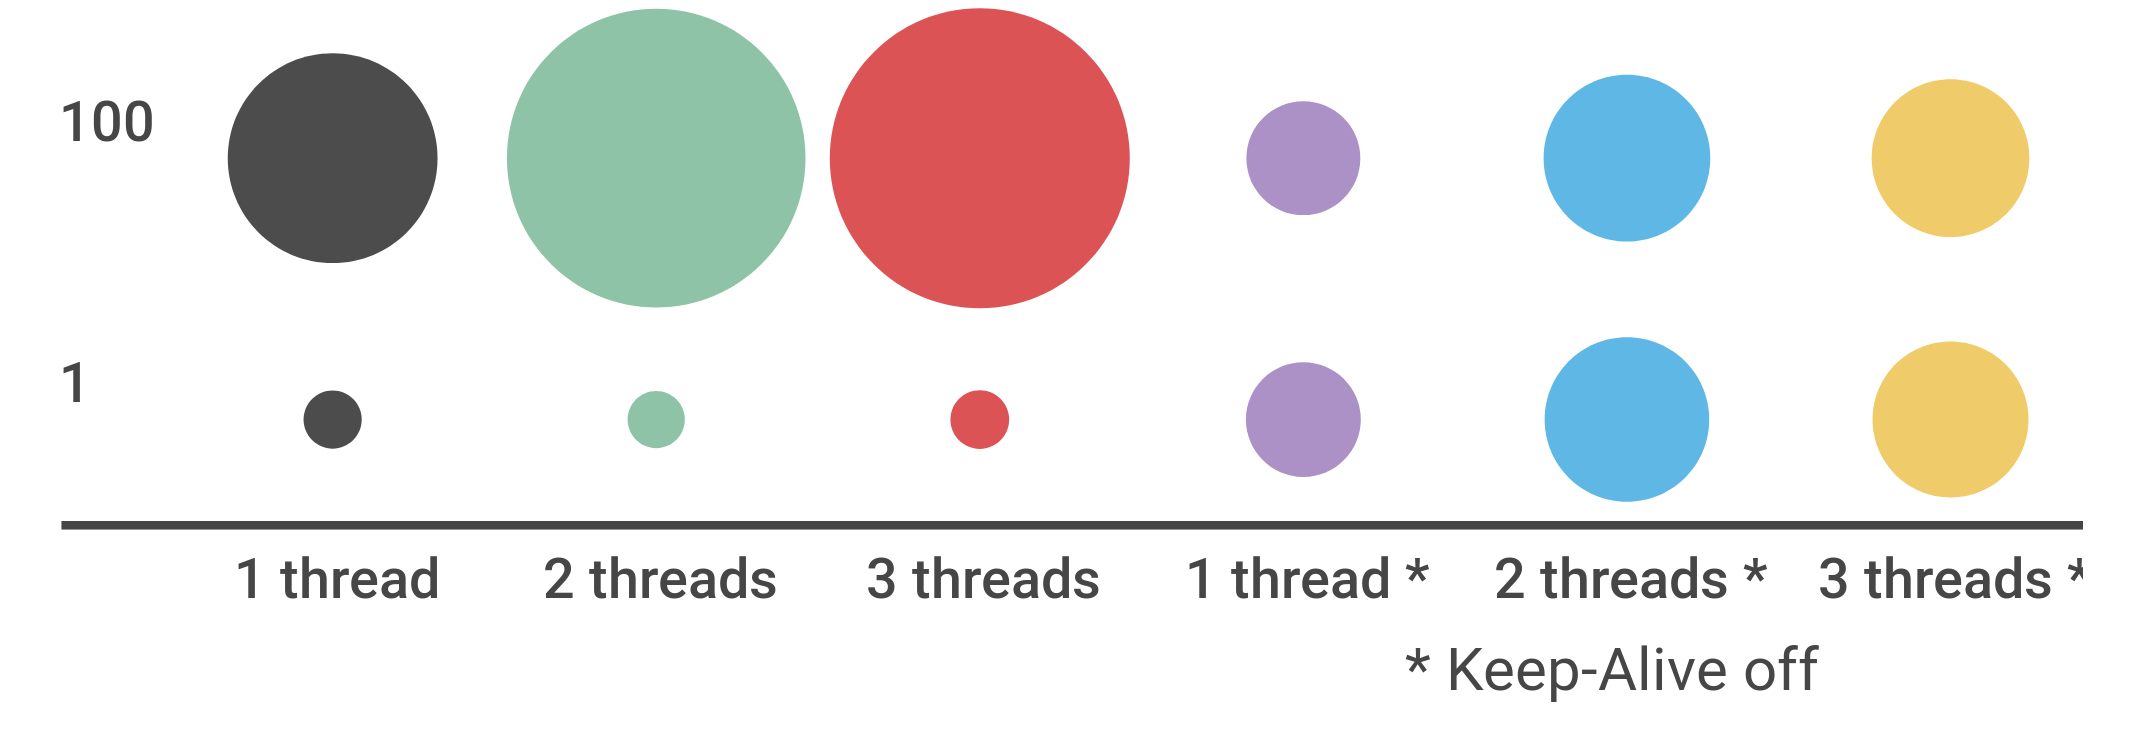
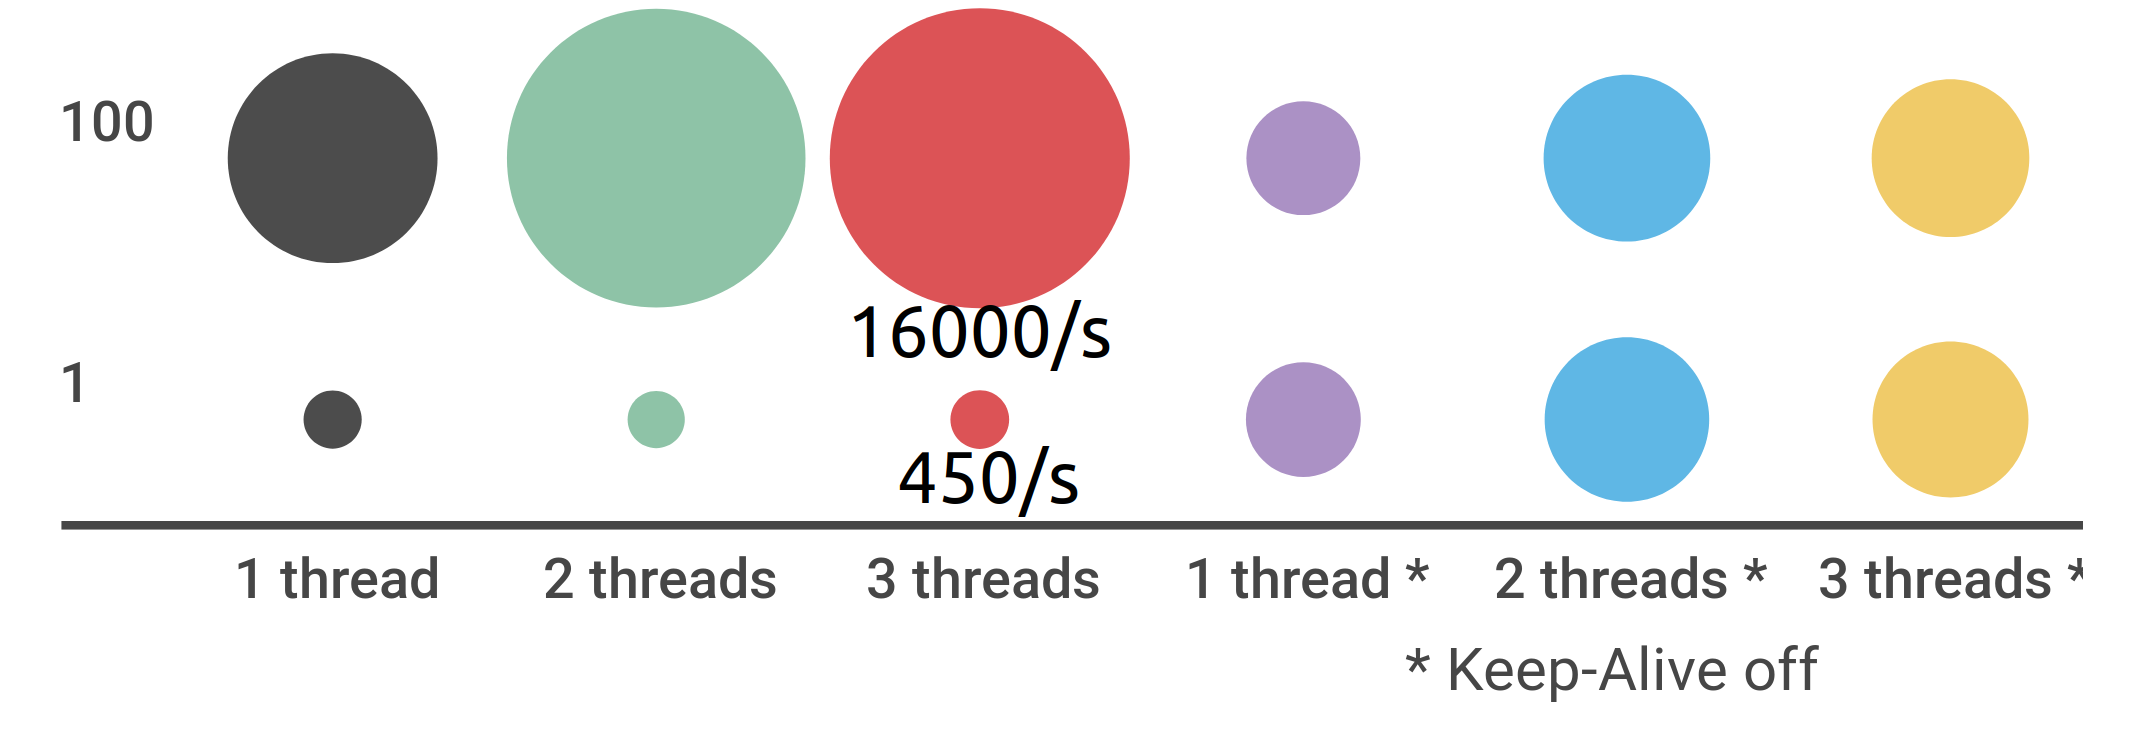
Правки

Changed region(s): [[0.4023, 0.4213, 0.526, 0.5116], [0.4023, 0.6019, 0.526, 0.6922]]

diff --git a/docs/index.html b/docs/index.html
@@ -96,7 +96,7 @@
 	<section class="slide"><div>
 		<h2>Apache.JMeter</h2>
 		<ul>
-			<li><a href="https://jmeter.apache.org/">https://jmeter.apache.org</a>, 2003 - настоящее время, активен</li>
+			<li><a href="https://jmeter.apache.org/">https://jmeter.apache.org</a>, c 2003 по настоящее время, активен</li>
 			<li>HTTP(S), JMS, JDBC, Java/Groovy, FTP, SMTP, ... 50+</li>
 			<li>ClickHouse, InfluxDB, Graphite, Grafana, HTML</li>
 			<li>Распределённый запуск, CI</li>
@@ -150,15 +150,14 @@
 
 	<section class="slide"><div>
 		<h2><b>Samplers.HTTP.Request.X</b>. Простой тест<f/h2>
-		<p>Несколько GET-запросов на локальный HTTP-сервер</p>
+		<p>Несколько GET-запросов на локальный сервер</p>
 		<figure>
 			<img class="w cover place bottom center" src="images/Samplers.HTTP.Request.X.png">
 		</figure>
 	</div></section>
 
 	<section class="slide"><div>
-		<h2>Запуск и остановка <b>NGinx</b> в тесте</h2>
-		<p>Используя <b>OS Process Sampler</b> в <b>setUp</b> и <b>tearDown Thread Group</b></p>
+		<h2>Запуск и остановка <b>NGinx</b> в тесте, используя <b>OS Process Sampler</b></h3>
 		<figure>
 			<img class="w cover place bottom center" 
 			src="images/Samplers.HTTP.Request.X.mark.png">
@@ -183,7 +182,7 @@
 
 	<section class="slide"><div>
 		<h2>Настраиваются параметры HTTP-запроса</h2>
-		<p>Параметризованы хост, порт, путь. Все настройки -- по умолчанию.</p>
+		<p>Параметризованы хост, порт, путь. Все настройки — по умолчанию.</p>
 		<figure>
 			<img class="w cover place bottom center" 
 				src="images/Samplers.HTTP.Request.X.mark.2.png">
@@ -201,7 +200,7 @@
 
 	<section class="slide"><div>
 		<h2>Количество потоков и итераций настраивается</h2>
-		<p>Профиль -- стабильная высокая нагрузка от <mark>${Threads}</mark> потоков</p>
+		<p>Профиль — стабильная высокая нагрузка от <mark>${Threads}</mark> потоков</p>
 		<figure>
 			<img class="w cover place bottom center" 
 			src="images/Samplers.HTTP.Request.X.mark.4.png">
@@ -226,7 +225,7 @@
 	</div></section>
 
 	<section class="slide"><div>
-		<h2>Результаты серии экспериментов</h2>
+		<h2>Результаты: ось X — потоки, ось Y — длина сценария</h2>
 		<figure>
 			<img 
 				class="place bottom center"
@@ -320,7 +319,7 @@
 
 	<section class="slide"><div>
 		<h2>Средняя интенсивность 4855/s,</h2>
-		<h3>должна быть стабильная нагрузка,<br/>а не всплески от 500/s до 16000/s</h3>
+		<h3>должна быть стабильная нагрузка,<br/>а видим всплески от 500/s до 16000/s</h3>
 		<figure>
 			<img class="w cover place bottom center" 
 				src="images/Monitoring.Sampler.HTTP.X.1.jmeter.png">	
@@ -411,9 +410,9 @@
 	</div></section>
 
 	<section class="clear blue slide"><div>
-		<h2 class="small shout">Модификацией интенсивность не поднять.<br/>
+		<h2 class="small shout">Модификацией скрипта интенсивность не поднять.<br/>
 			<span class="next">Решили оставить <b>10</b> запросов в итерации.</span><br/>
-			<span class="next">А <b>HTTP Cache Manager</b> не ускоряет.</span>
+			<span class="next">А <b>HTTP Cache Manager</b> не ускорил<br>получение маленького ответа.</span>
 		</h2>
 	</div></section>
 
@@ -610,7 +609,7 @@
 
 	<section class="clear green slide"><div>
 		<h2 class="small shout">Ускорение в <b>1,6</b> раза — c 4800/s до 7700/s<br/>
-							   и избавление от ошибок java.net.NoRouteToHostException<br/>
+							   и избавление от ошибок <mark>Address not available</mark><br/>
 							   при расширения диапазона портов<br/>
 			<b>net.ipv4.ip_local_port_range</b> (1024 60999)<br/>
 			</span>
@@ -1623,26 +1622,6 @@
 		<figure>
 			<img class="place bottom center"
 				style="height:55%; padding: 20px 20px 20px 20px"
-				src="images/jsr-223.jmeter.png">
-		</figure>
-	</div></section>
-
-	<section class="slide"><div>
-		<h2>Аналогичный работе Boundary Extractor</h2>
-		<h3>JSR-223 PostProcessor для <mark>htmlContent</mark></h3>
-		<figure>
-			<img class="place bottom center"
-				style="height:55%; padding: 20px 20px 20px 20px"
-				src="images/jsr-223.idea.png">
-		</figure>
-	</div></section>
-
-	<section class="slide"><div>
-		<h2>Аналогичный работе Boundary Extractor</h2>
-		<h3>BeanShell PostProcessor</h3>
-		<figure>
-			<img class="place bottom center"
-				style="height:55%; padding: 20px 20px 20px 20px"
 				src="images/beanshell.jmeter.png">
 		</figure>
 	</div></section>
@@ -1710,7 +1689,7 @@
 		<h2 class="small shout"><b>PostProcessor для HTML</b><br/>
 								Точно не использовать <b>XPath</b> для HTML.<br/>
 								Лидеры <b>RegExp</b> и <b>Boundary Extractor</b>.<br/>
-								Но и <b>CSS Selector</b> неплох - лишь x2 от логгера.<br/>
+								Но и <b>CSS Selector</b> неплох — лишь x2 от логгера.<br/>
 		</h2>
 	</div></section>
 
